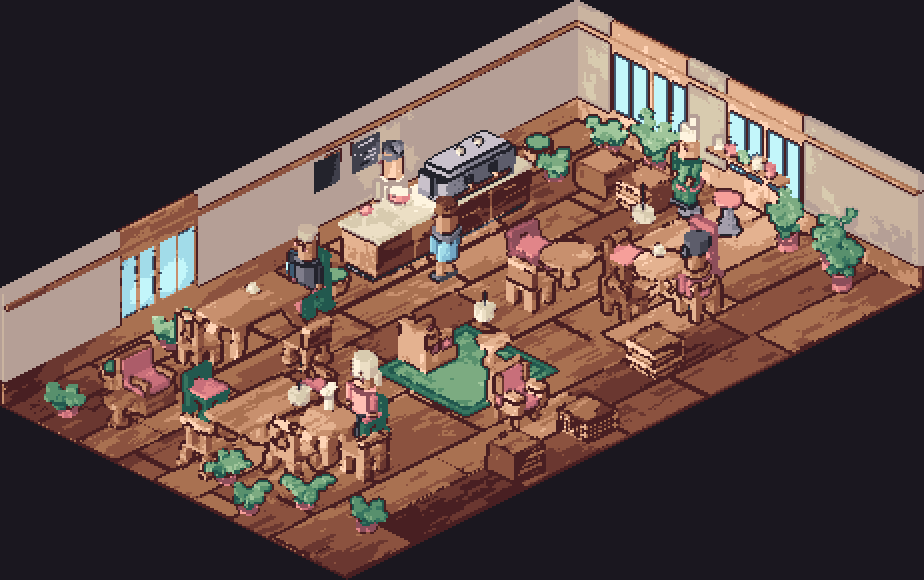
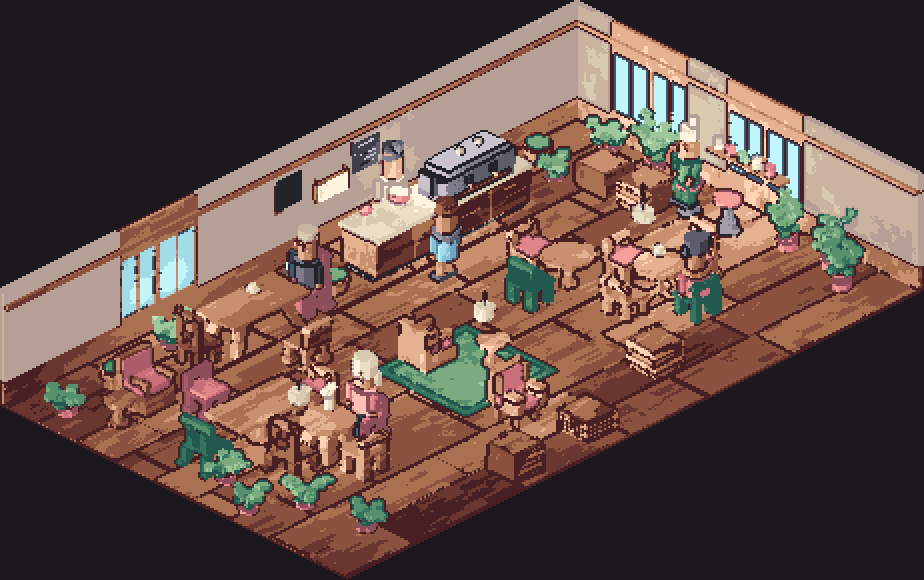
The eighth pass in full, and the rooms whose back wall got used
Claude-Session: https://claude.ai/code/session_01Q5KEMm7eqHrVgYtYGEkSmS

diff --git a/ART_CRITIQUE.md b/ART_CRITIQUE.md
@@ -2520,6 +2520,111 @@ lighting-independent metric. It does. Four rooms cannot separate that from
 topology, though — seed 1 is also the only wall run in the sample — so this is
 a thread, not a finding.
 
+## The thread was real and it was not orientation
+
+The edge re-read left a thread: the worst room on a lighting-independent metric
+was a facing-0 run, which the raking key cannot explain. Four rooms could not
+separate that from topology. Twelve can.
+
+| plan | topology | facing | focal detail lead |
+|---|---|---|---|
+| 11 | wall run | 0 | **−0.009** |
+| 1 | wall run | 0 | **−0.008** |
+| 10 | wall run | 0 | **−0.005** |
+| 2 | peninsula | 90 | +0.015 |
+| 6 | peninsula | 90 | +0.016 |
+| 4 | wall run | 0 | +0.018 |
+| 9 | L run | 0 | +0.024 |
+| 7 | wall run | 90 | +0.042 |
+| 12 | island | 0 | +0.046 |
+| 5 | peninsula | 0 | +0.052 |
+| 3 | island | 90 | +0.053 |
+| 8 | L run | 90 | +0.058 |
+
+Grouped by facing the two sets overlap almost completely — facing 0 spans
+−0.009 to +0.052 and facing 90 spans +0.015 to +0.058. **Orientation does not
+explain this one.** Grouped by topology, every negative room is a wall run.
+
+So the thread dies as an orientation story and lives as a topology one, and
+the explanation is the same wall that the brightness section credited:
+
+- a wall run's focal region contains 1.5 m of **lit vertical mass**, which is
+  why wall runs read brightest;
+- that mass is 1.5 m of **one flat ramp step**, which is why they read
+  flattest.
+
+Two metrics disagreeing about the same rooms, for one structural reason, each
+of them right.
+
+## The wall was a surface nobody used
+
+The reference room is a wall run too, and it reads **+0.092** — above every
+generated room in the table. What its back wall carries that a generated one
+does not:
+
+| | reference | generated wall run |
+|---|---|---|
+| menu boards | 2 | 2 |
+| open wall shelving | **2** | **0** |
+| hanging sign | **1** | **0** |
+
+`A.wall_shelf` has been in the library since the second pass and was only ever
+called for the *window bar's* worktop. `A.wall_sign` has been in it just as
+long, with a docstring reading *"this is a focal device, not decoration — it is
+the one bright, high-contrast object over the interaction zone, which is how
+the composition tells the player where to look."*
+
+**No generated room has ever had one.** A focal device that the focal check
+never saw, sitting in the library the whole time the focal check was being
+argued about. Two hundred lines of this file are about what the counter needs;
+the answer was already written down in a docstring above the counter.
+
+With the band between the counter top and the boards dressed:
+
+| plan | before | after |
+|---|---|---|
+| 11 wall run | −0.009 | **+0.011** |
+| 1 wall run | −0.008 | **+0.006** |
+| 10 wall run | −0.005 | **+0.005** |
+| 4 wall run | +0.018 | +0.033 |
+| 9 L run | +0.024 | +0.036 |
+| 7 wall run | +0.042 | +0.071 |
+| 8 L run | +0.058 | +0.082 |
+
+Minimum over twelve rooms **−0.009 → +0.005**, no room negative, and the five
+wall-less rooms read bit-identical, which is the scope the change was supposed
+to have. Brightness barely moved — plans 4 and 10 gained 0.004 and 0.002, plan
+7 lost 0.007 — which is the point: this is detail, not mass, and the metric
+that found it is the only one that reports it.
+
+### Proposed and tested, because an index is not a footprint
+
+First version handed out tiles by index: menus 0 and 1, shelves 2 and 3, the
+sign in the middle. That put the sign through a shelf in three rooms and
+through a menu board in three more, because `A.wall_shelf(1.6)` is two tiles
+wide. The back bar shelving above already learned this and the rule is the same
+rule, so it is the same loop — propose, test against `_conflicts`, keep or
+drop. The sign goes first and takes the middle, because it is the one object
+here with a place it needs to be.
+
+### The floor, and how thin it is
+
+Promoted into `check_focal_contrast` as a third reading off the same four
+renders rather than as a twenty-fifth check, so the suite costs nothing extra.
+
+Zero is not a tuned constant, it is the sign change: below it the busiest thing
+in frame is not the thing the composition is pointing at. The bracket is
+**0.010 wide** — three measured defects at −0.005, −0.008 and −0.009 against a
+weakest good room at +0.005 — and thin is the honest report rather than a
+reason to round the floor somewhere more comfortable. A wall run that loses its
+shelf will fail this, and should.
+
+Verified in both directions on shipped code: clean at 0.000, and at a floor of
+0.020 it reports *plan 1 (wall run): counter carries +0.006 detail against its
+room* and *plan 2 (peninsula): +0.015*. Those two numbers match the standalone
+edge script to three decimals, which is the check and the experiment agreeing
+through two separate implementations.
+
 ## Still open
 
 - **Stages 1–3** (SDXL concept → TRELLIS 2 mesh → UniRig rig) need a GPU and
@@ -2540,8 +2645,7 @@ a thread, not a finding.
   bracketed by measurement) but the mean-spread floor of 0.15 is still close to
   the original guess. It has never rejected anything the closest-pair floor did
   not also reject, which is either redundancy or a floor set too low to fire.
-- **Is the facing-0 penalty structural as well as lit?** Edge density is blind
-  to the light rig, and the worst room on it is a facing-0 run. Four rooms
-  cannot separate orientation from topology — the sample's only facing-0 room
-  is also its only wall run — so this needs the full twelve before it is
-  anything more than a thread.
+- **The detail floor's bracket is 0.010 wide.** Three measured defects at
+  −0.005 to −0.009 against a weakest good room at +0.005. It is the tightest
+  floor in the suite and the first one whose margin is smaller than the
+  difference between two adjacent rooms.
